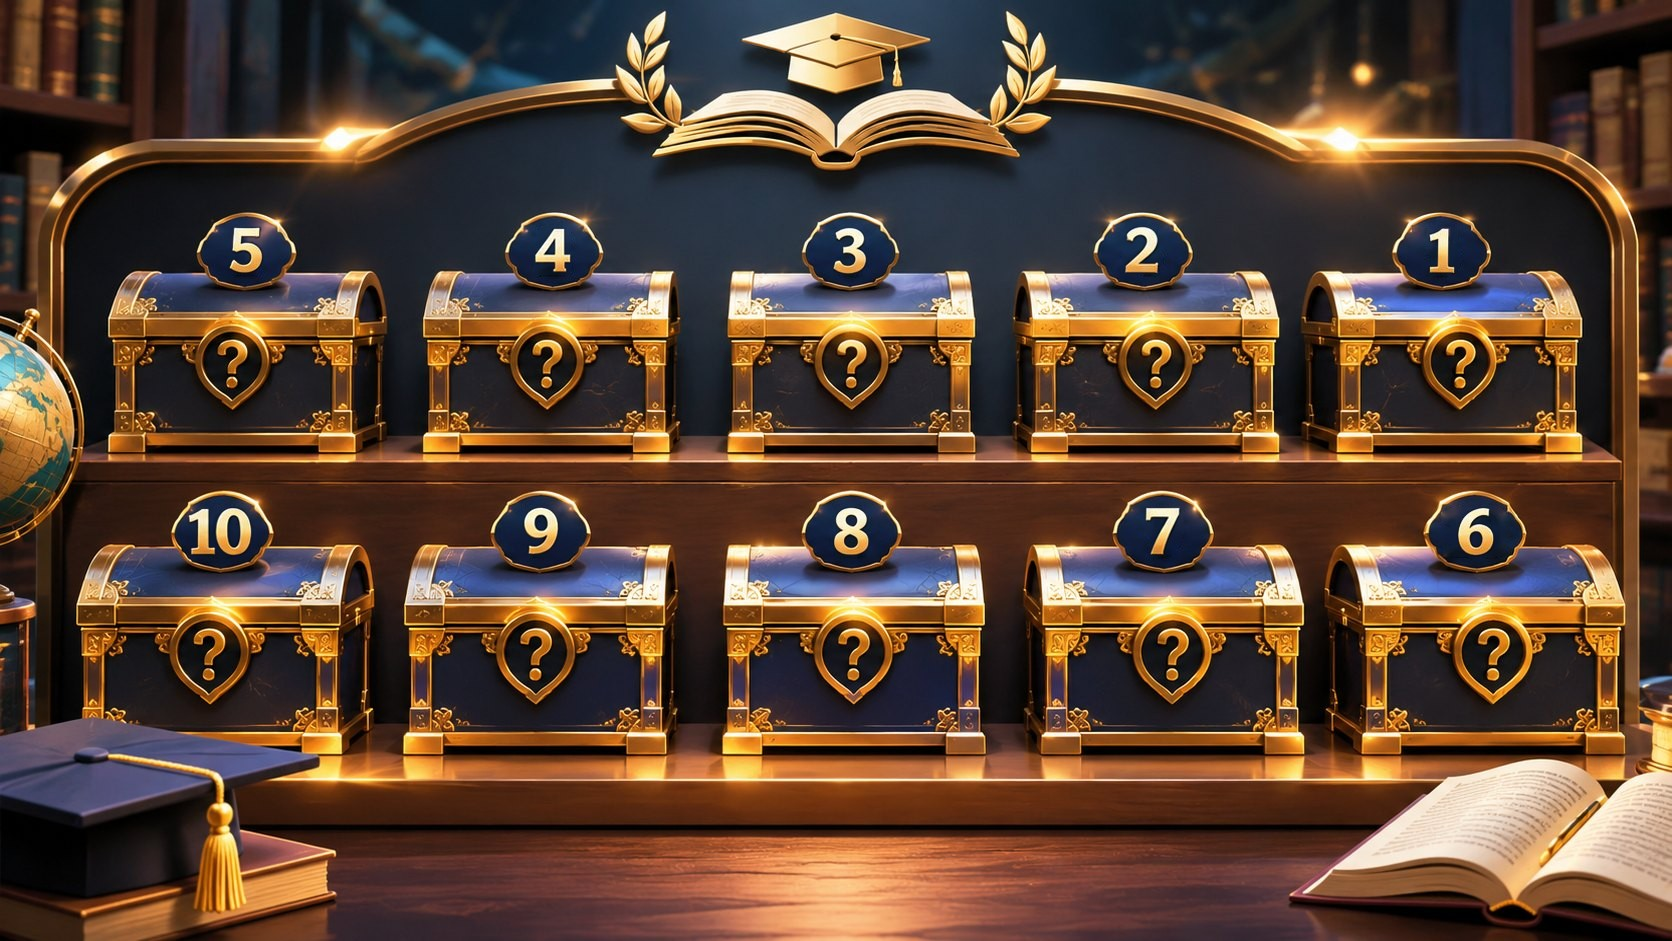
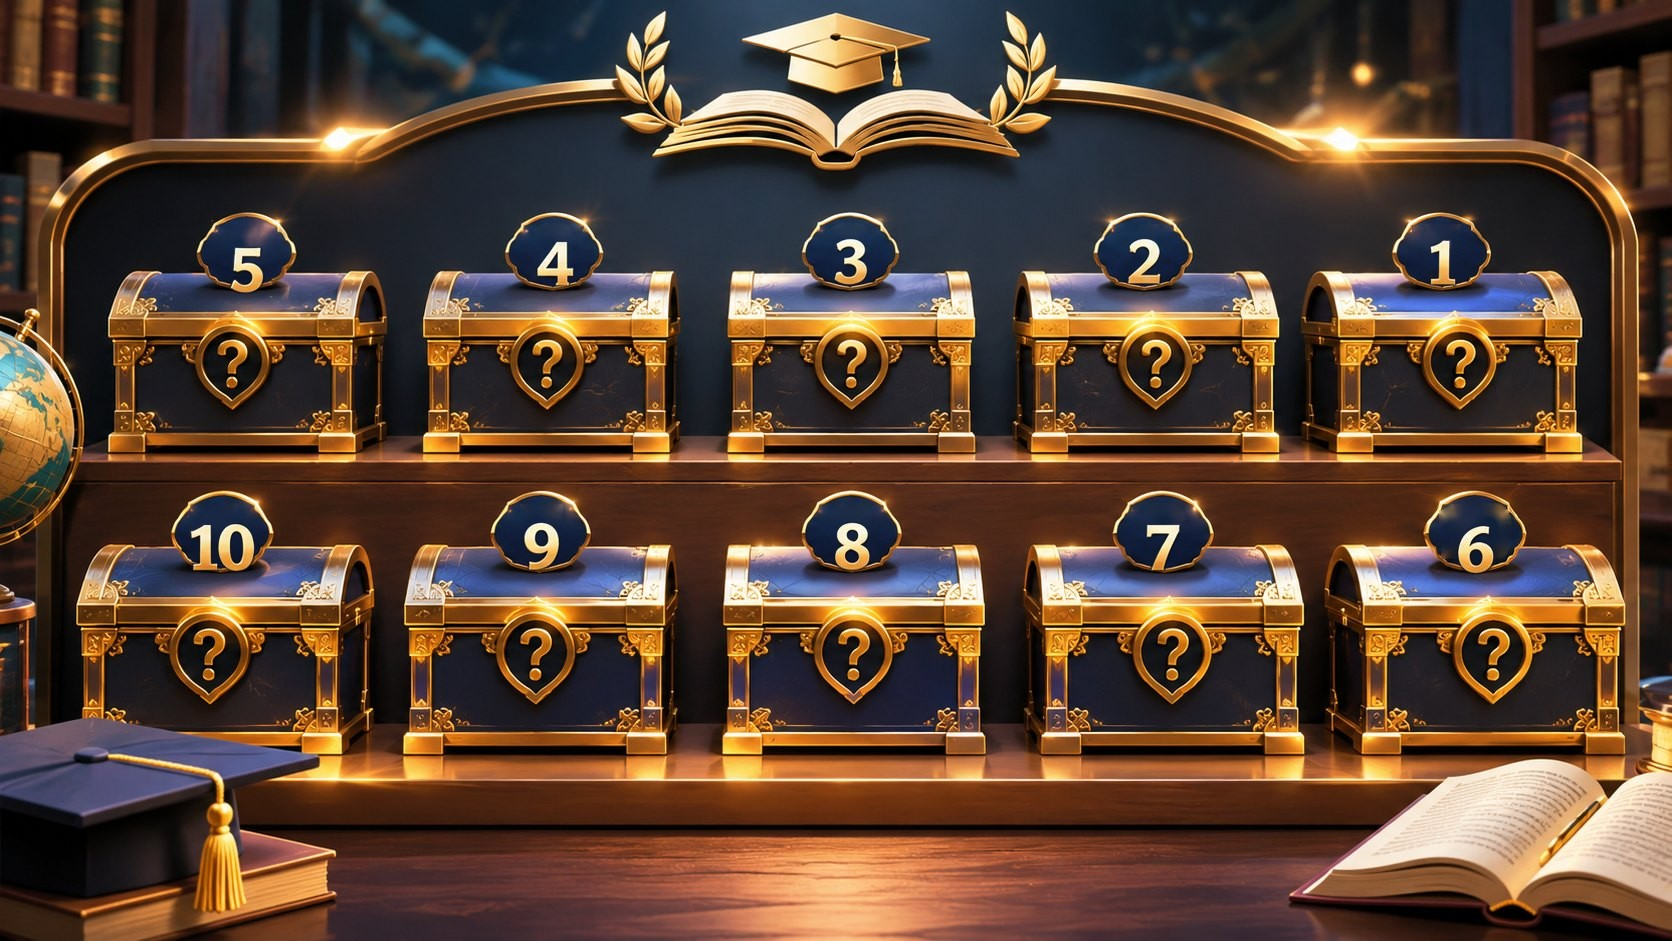
الأرقام في وسط لوحاتها تماماً في الصور العريضة والطولية
Claude-Session: https://claude.ai/code/session_01NxRUwUYybLphHAkSr2FTz7

diff --git a/tools/renumber.py b/tools/renumber.py
@@ -1,0 +1,60 @@
+"""يقلب أرقام الصناديق المرسومة لتصير من اليمين لليسار، ويضع كل رقم في وسط لوحته تماماً.
+مكان اللوحة يُحسب من تناظرها (اللوحات متناظرة) بعد محو الأرقام."""
+import json, numpy as np, cv2
+def glyph(img, r, win, loose=False):
+    H, W = img.shape[:2]; (fx0, fx1, fy0, fy1), pol = win
+    x, y, w, h = [v / 100 for v in r]
+    X0, X1, Y0, Y1 = int((x + fx0 * w) * W), int((x + fx1 * w) * W), max(0, int((y + fy0 * h) * H)), int((y + fy1 * h) * H)
+    g = cv2.cvtColor(img[Y0:Y1, X0:X1], cv2.COLOR_BGR2GRAY)
+    _, m = cv2.threshold(g, 0, 255, (cv2.THRESH_BINARY_INV if pol == 'dark' else cv2.THRESH_BINARY) + cv2.THRESH_OTSU)
+    k, lab, st, _ = cv2.connectedComponentsWithStats(m); hh, ww = m.shape
+    if loose:   # نافذة ضيقة حول الرقم: يُقبل ما يلمس الحافة العليا
+        cand = [i for i in range(1, k) if st[i][4] >= 25 and st[i][0] > 0 and st[i][0] + st[i][2] < ww
+                and st[i][1] + st[i][3] < hh and st[i][3] >= 0.18 * hh]
+    else:
+        cand = [i for i in range(1, k) if st[i][4] >= 40 and st[i][0] > 0 and st[i][1] > 0 and st[i][0] + st[i][2] < ww
+                and st[i][1] + st[i][3] < hh and 0.15 * hh <= st[i][3] <= 0.6 * hh and st[i][2] <= 0.5 * ww]
+    main = max(cand, key=lambda i: st[i][4]); mx, my, mw, mh, _ = st[main]
+    keep = np.zeros_like(m)
+    for i in cand:
+        bx, by, bw, bh, _ = st[i]
+        ov = min(by + bh, my + mh) - max(by, my); gap = max(bx - (mx + mw), mx - (bx + bw), 0)
+        if i == main or (ov > 0.7 * mh and abs(bh - mh) < 0.25 * mh and gap < 0.6 * mh): keep[lab == i] = 255
+    full = np.zeros((H, W), np.uint8); full[Y0:Y1, X0:X1] = keep
+    ys, xs = np.nonzero(full)
+    return full, (xs.min(), ys.min(), xs.max(), ys.max())
+def plate_center(gray, cx, cy, gh):
+    """مركز اللوحة: النقطة التي تكون اللوحة حولها متناظرة يميناً ويساراً، وأعلى وأسفل"""
+    hw, hh = int(1.05 * gh), int(0.8 * gh); rng = int(0.45 * gh)
+    def best(axis):
+        bestv, bestc = 1e18, 0
+        for d in range(-rng, rng + 1):
+            x, y = (cx + d, cy) if axis == 0 else (cx, cy + d)
+            P = gray[int(y - hh):int(y + hh), int(x - hw):int(x + hw)].astype(np.float32)
+            if P.size == 0: continue
+            Q = P[:, ::-1] if axis == 0 else P[::-1, :]
+            v = np.abs(P - Q).mean()
+            if v < bestv: bestv, bestc = v, d
+        return bestc
+    dx = best(0); dy = best(1)
+    return cx + dx, cy + dy
+def renumber(img, rects, win, src_of, loose=False):
+    """src_of[t] = رقم الصندوق الذي يُنقل رقمه إلى المكان t"""
+    orig = img.copy(); G = [glyph(orig, r, win, loose) for r in rects]
+    allm = np.zeros(img.shape[:2], np.uint8)
+    for m, _ in G: allm |= m
+    img = cv2.inpaint(img, cv2.dilate(allm, np.ones((11, 11), np.uint8)), 9, cv2.INPAINT_TELEA)
+    gray = cv2.cvtColor(img, cv2.COLOR_BGR2GRAY)
+    for t, s in enumerate(src_of):
+        m, (sx0, sy0, sx1, sy1) = G[s]; _, (tx0, ty0, tx1, ty1) = G[t]
+        gh = max(sy1 - sy0, ty1 - ty0)
+        pcx, pcy = plate_center(gray, (tx0 + tx1) / 2, (ty0 + ty1) / 2, gh)
+        p = 5; bx0, by0, bx1, by1 = sx0 - p, sy0 - p, sx1 + p, sy1 + p
+        patch = orig[by0:by1 + 1, bx0:bx1 + 1].astype(np.float32)
+        al = cv2.GaussianBlur(cv2.dilate(m, np.ones((3, 3), np.uint8))[by0:by1 + 1, bx0:bx1 + 1], (3, 3), 0).astype(np.float32)[..., None] / 255
+        ph, pw = patch.shape[:2]
+        X = int(round(pcx - (sx1 - sx0) / 2)) - p
+        Y = int(round(pcy - (sy1 - sy0) / 2)) - p
+        roi = img[Y:Y + ph, X:X + pw].astype(np.float32)
+        img[Y:Y + ph, X:X + pw] = (roi * (1 - al) + patch * al).clip(0, 255).astype(np.uint8)
+    return img

diff --git a/tools/renumber_run.py b/tools/renumber_run.py
@@ -1,0 +1,14 @@
+import sys, json, cv2
+sys.path.insert(0,'/home/claude/fix'); from renumber import renumber
+WINL = {2: ((0.30, 0.70, 0.60, 0.90), 'dark'), 3: ((0.37, 0.65, 0.04, 0.27), 'light'),
+        4: ((0.35, 0.68, 0.0, 0.26), 'dark'), 5: ((0.39, 0.645, 0.25, 0.52), 'light')}
+cfg = {b['id']: b for b in json.load(open('/home/claude/sanadeeq/config.json'))['boards']}
+for n in (2,3,4,5):
+    rr = cfg[f'board{n}']['rects']; ltr = rr[:5][::-1] + rr[5:][::-1]
+    img = renumber(cv2.imread(f'/home/claude/sanadeeq/boards/board{n}.jpg'), ltr, WINL[n], [4,3,2,1,0,9,8,7,6,5], loose=True)
+    cv2.imwrite(f'/home/claude/fix/board{n}-rtl.jpg', img, [cv2.IMWRITE_JPEG_QUALITY, 90])
+sys.path.insert(0,'/home/claude/tall2'); import tall2
+for n in (2,3,4,5):
+    img = renumber(cv2.imread(f'/home/claude/tall2/in{n}.jpg'), tall2.rects(n), tall2.WIN[n], [i ^ 1 for i in range(10)])
+    cv2.imwrite(f'/home/claude/fix/board{n}-tall2.jpg', img, [cv2.IMWRITE_JPEG_QUALITY, 86])
+print('ok')
